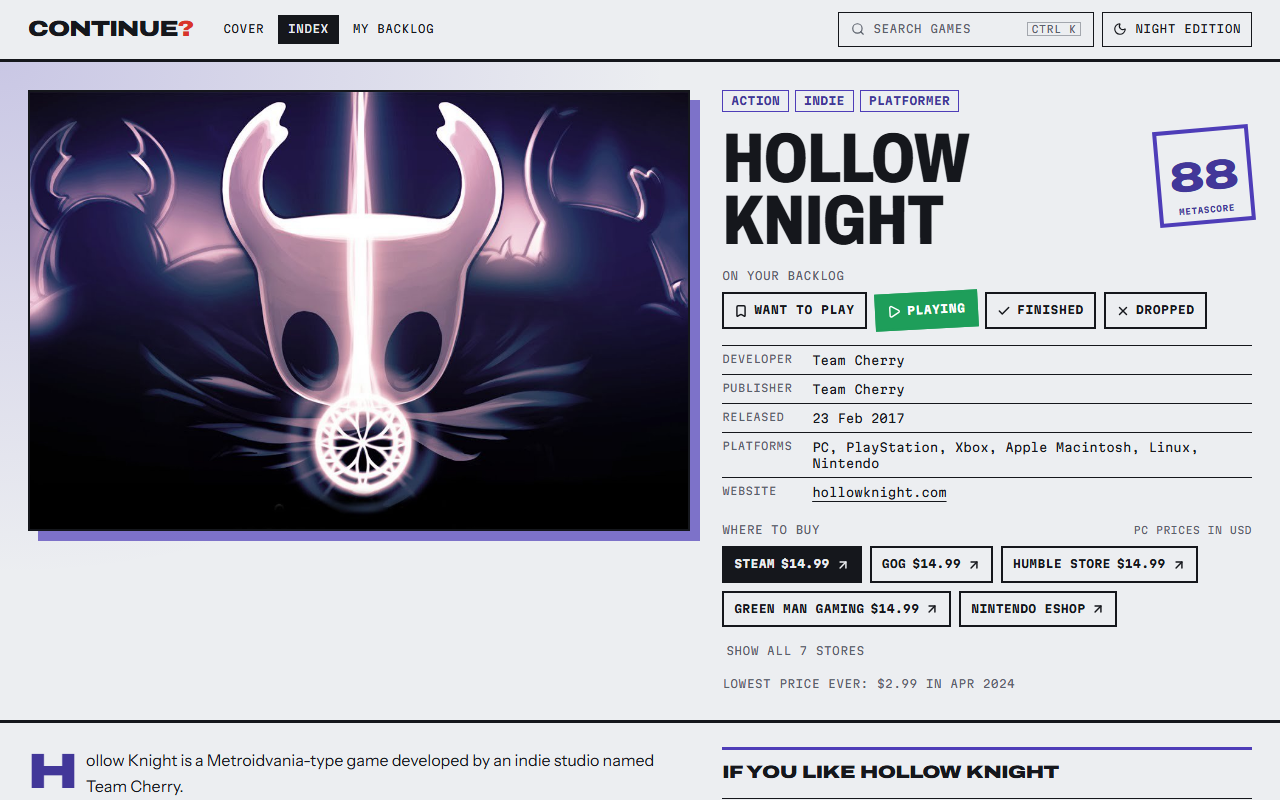
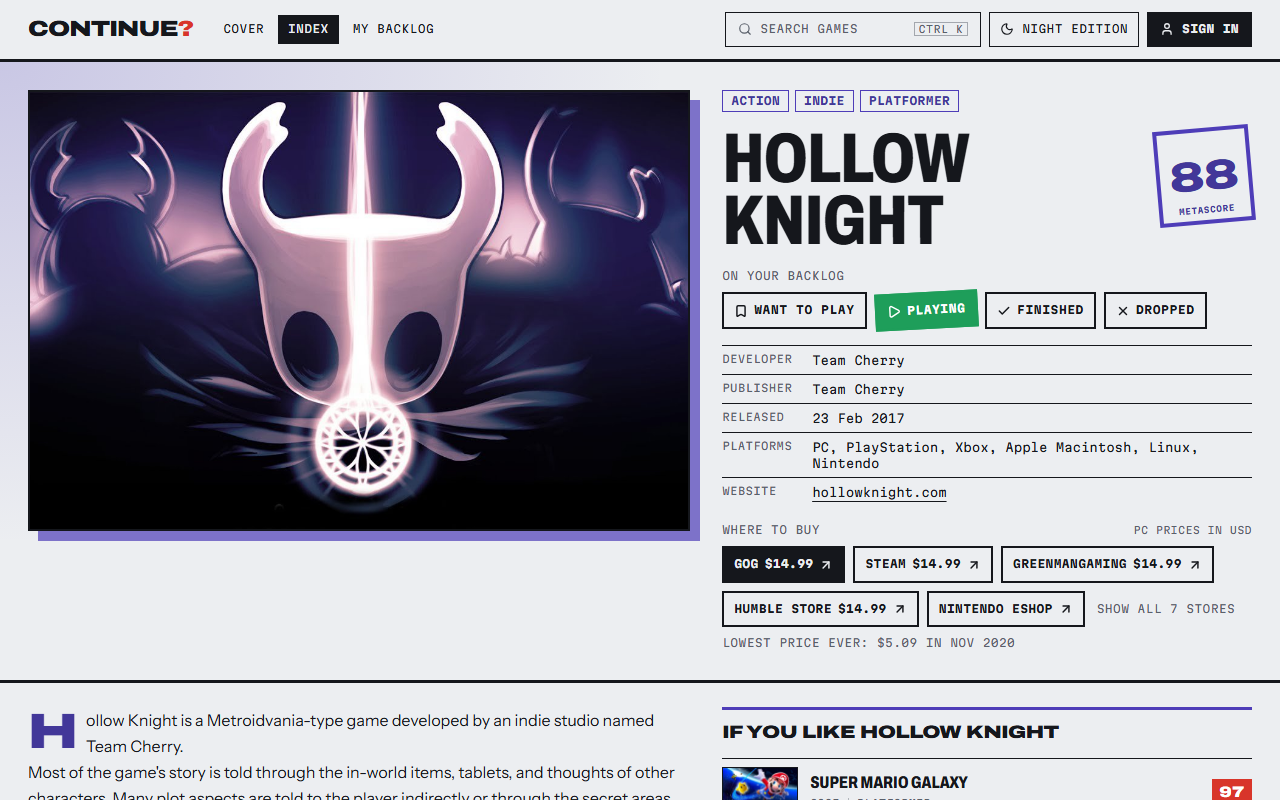
update readme

diff --git a/README.md b/README.md
@@ -15,91 +15,88 @@ The video game index. Browse over 900,000 games, compare scores and prices, and 
 - **Index** of every game as a ranked list or a grid, filtered by genre, platform and search. Filters live in the URL, so any view can be bookmarked or shared.
 - **Instant search** with <kbd>Ctrl</kbd> <kbd>K</kbd> from anywhere. It forgives typos ("wither" finds The Witcher), understands initials ("gta", "cod") and ranks by how well the name matches and how popular the game is.
 - **Game pages** printed in a spot color taken from the game's cover art, with details, similar games and a full-screen gallery of screenshots and trailers
-- **Where to buy** with links to every store, live PC prices, discounts, the best deal and the lowest price ever
-- **Backlog** to stamp games as Want to play, Playing, Finished or Dropped
+- **Prices on every game**: the cheapest current PC price and its discount, on cards and in the index
+- **Where to buy** with links to every store, PC prices, discounts, the best deal and the lowest price ever
+- **Backlog** to stamp games as Want to play, Playing, Finished or Dropped and filter them by status. Works without an account.
+- **Accounts** with Google, GitHub or email. The backlog syncs between devices, and games saved before signing in come along.
+- **Public profiles**: a profile is private until you make it public, then anyone with the link can see your backlog
 - **Link previews** that show the game's cover, score and best price when a link is shared in Telegram, Discord, Slack and other apps
 - **Day and night editions** (light and dark mode)
 
 ![A game page](docs/game.png)
 
-| Instant search                     | Gallery and trailers                                |
-| ---------------------------------- | --------------------------------------------------- |
-| ![Instant search](docs/search.png) | ![Gallery with a trailer playing](docs/gallery.png) |
+| Instant search                           | Gallery and trailers                                |
+| ---------------------------------------- | --------------------------------------------------- |
+| ![Instant search](docs/search.png)       | ![Gallery with a trailer playing](docs/gallery.png) |
+| **The index with prices**                | **A backlog**                                       |
+| ![The index with prices](docs/index.png) | ![A backlog with status stamps](docs/backlog.png)   |
 
 ## How it works
 
-```mermaid
-flowchart LR
-  browser[Browser] -->|/api/*| api[Vercel Functions]
-  bots[Link preview bots] -->|/games/:slug| share["/api/share"]
-  share --> api
-  api --> rawg[(RAWG)]
-  api --> cheapshark[(CheapShark)]
-```
-
-The browser never talks to the game data providers directly. It calls the app's own `/api` routes, which:
-
-- add the API key on the server, where nobody can read it
-- validate input and answer bad requests with clear errors
-- reshape every response into the app's own types, so switching data providers only touches the server
-- cache responses on Vercel's CDN
-
-Link preview bots (they don't run JavaScript) are routed to a small server-rendered page with the game's preview tags. Everyone else gets the normal app.
+- **Own API.** The browser never calls RAWG or IsThereAnyDeal. It calls the app's `/api` routes, which keep the keys on the server, validate input, reshape responses into the app's own types and cache them on Vercel's CDN.
+- **Prices** are stored in Postgres, where only the server can reach them. The server asks IsThereAnyDeal only about games that are new or were checked more than 12 hours ago, in one bulk request.
+- **Accounts and backlogs** go from the browser straight to Supabase. Row level security decides who can read or change each row, so other people see a backlog only when its profile is public. Signed out, the backlog stays in the browser and moves to the account on sign-in.
+- **Link previews.** Chat apps' bots don't run JavaScript, so they get a small server-rendered page with the game's cover, score and price.
 
 ## Tech stack
 
-| Area             | Tools                                                                                                          |
-| ---------------- | -------------------------------------------------------------------------------------------------------------- |
-| App              | React 19, TypeScript, Vite 8                                                                                   |
-| Styling          | Tailwind CSS 4, shadcn/ui on Radix                                                                             |
-| Data and routing | TanStack Query, React Router 8                                                                                 |
-| API              | Vercel Functions in front of [RAWG](https://rawg.io/apidocs) and [CheapShark](https://apidocs.cheapshark.com/) |
-| Testing          | Vitest, Playwright, GitHub Actions                                                                             |
-| Tooling          | ESLint, typescript-eslint, Prettier                                                                            |
+| Area          | Tools                                                                                                        |
+| ------------- | ------------------------------------------------------------------------------------------------------------ |
+| Frontend      | React 19, TypeScript, Vite 8, Tailwind CSS 4, shadcn/ui on Radix, TanStack Query, React Router 8             |
+| Backend       | REST API on Vercel Functions (Node 24, TypeScript), Supabase Auth with Google, GitHub and email              |
+| Database      | Postgres on Supabase, with row level security                                                                |
+| External APIs | [RAWG](https://rawg.io/apidocs) for game data, [IsThereAnyDeal](https://docs.isthereanydeal.com/) for prices |
+| Testing       | Vitest, Playwright, GitHub Actions                                                                           |
+| Tooling       | ESLint, typescript-eslint, Prettier                                                                          |
 
 ## Running locally
 
-You need Node 24 and a free RAWG API key from [rawg.io/apidocs](https://rawg.io/apidocs).
+You need Node 24 and a free RAWG API key from [rawg.io/apidocs](https://rawg.io/apidocs). Prices also need a free IsThereAnyDeal API key from [isthereanydeal.com/apps/my](https://isthereanydeal.com/apps/my/) and the Supabase project's secret key. Without them the app still runs, just without prices.
 
 ```bash
 npm install
-cp .env.example .env.local   # then set RAWG_API_KEY
+cp .env.example .env.local   # then fill in the keys
 npm run dev
 ```
 
 The dev server runs the `/api` routes too, and reloads them when you edit them, so local behaves like production.
 
-| Script               | What it does                            |
-| -------------------- | --------------------------------------- |
-| `npm run dev`        | Start the dev server                    |
-| `npm run build`      | Typecheck and build for production      |
-| `npm run preview`    | Serve the production build locally      |
-| `npm run lint`       | Lint the project                        |
-| `npm run format`     | Format every file with Prettier         |
-| `npm test`           | Run the unit tests                      |
-| `npm run test:watch` | Run the unit tests again on every save  |
-| `npm run test:e2e`   | Build the app and run the browser tests |
+The committed `.env` holds the live Supabase project's URL and publishable key, which are public by design. To run on your own project, create one, apply the migrations with `npx supabase link` and `npx supabase db push`, put its URL and publishable key in `.env` and its secret key in `.env.local`.
+
+| Script                 | What it does                                    |
+| ---------------------- | ----------------------------------------------- |
+| `npm run dev`          | Start the dev server                            |
+| `npm run build`        | Typecheck and build for production              |
+| `npm run preview`      | Serve the production build locally              |
+| `npm run lint`         | Lint the project                                |
+| `npm run format`       | Format every file with Prettier                 |
+| `npm run format:check` | Check the formatting without changing files     |
+| `npm test`             | Run the unit tests                              |
+| `npm run test:watch`   | Run the unit tests again on every save          |
+| `npm run test:e2e`     | Build the app and run the browser tests         |
+| `npm run db:types`     | Regenerate the database types after a migration |
 
 ## Testing
 
-- **Unit tests** (Vitest) sit next to the code they test, as `*.test.ts`. They cover the search ranking, store prices and offers, link preview pages, input validation of every endpoint, and the formatting helpers. Calls to RAWG and CheapShark are faked, so the tests never touch the network.
+- **Unit tests** (Vitest) sit next to the code they test, as `*.test.ts`. They cover the search ranking, store prices and offers, link preview pages, input validation of every endpoint, and the formatting helpers. Calls to RAWG, IsThereAnyDeal and the database are faked, so the tests never touch the network.
 - **End-to-end tests** (Playwright) live in [`e2e/`](e2e) and click through the real app in a browser: search, game pages, the gallery, the backlog, filters, dark mode and phone-sized screens. They answer `/api` requests with recorded responses from [`e2e/fixtures`](e2e/fixtures), so they run offline and don't need an API key.
 - **CI** (GitHub Actions) runs the format check, lint, typecheck, unit tests, build and end-to-end tests on every push and pull request.
 
 ## Project structure
 
 ```text
-api/            Vercel functions: games, game, genres, platforms, stores, search, share
-  _lib/         Shared server code: RAWG and CheapShark clients, search, offers
+api/            Vercel functions: games, game, genres, platforms, prices, stores, search, share
+  _lib/         Shared server code: RAWG and IsThereAnyDeal clients, search, prices, offers
 shared/         Types and helpers used by both the API and the app
 src/
-  pages/        Cover, index, game, backlog and error pages
+  pages/        Cover, index, game, backlog, profile, settings, privacy and error pages
   components/   UI components
-  hooks/        Data fetching, URL filters, backlog, keyboard shortcuts
-  lib/          Formatting, spot colors, status styles
+  hooks/        Data fetching, URL filters, backlog, session and profile, keyboard shortcuts
+  lib/          Supabase client, backlog sync, formatting, spot colors, status styles
+supabase/       Database migrations, auth email templates and config
 e2e/            Browser tests and recorded API responses
 ```
 
 ## Credits
 
-Game data and images come from [RAWG](https://rawg.io). Prices come from [CheapShark](https://www.cheapshark.com).
+Game data and images come from [RAWG](https://rawg.io). Prices come from [IsThereAnyDeal](https://isthereanydeal.com).
